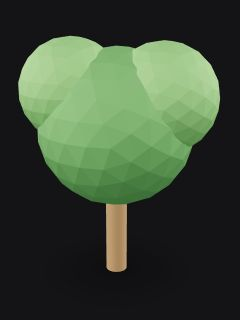
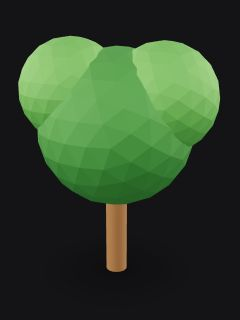
Regenerate demo models and add project notes
Demo GLBs now use real PBR materials at real-world scale, with new
thumbnails. CLAUDE.md records the architecture and behaviour decisions.

diff --git a/CLAUDE.md b/CLAUDE.md
@@ -1,0 +1,41 @@
+# Sketch-to-AR (ADR1): project notes for Claude Code
+
+Phone-first web platform where students in the ADR1 course (Columbia GSAPP, Amelyn Ng) upload Blender sketches as GLB files and place them life-sized in AR. Built and maintained by Khaled Alanjery (assistantship). TA testing: Tianrun Li.
+
+Live site: https://adr-gsapp.github.io/Sketch-to-AR/  (GitHub Pages, repo ADR-GSAPP/Sketch-to-AR, branch main, root)
+
+## Architecture
+- **index.html**: the whole front end in one file. No build step, no framework.
+  - `<model-viewer>` 3.5.0 from the Google CDN; fonts DM Sans + Geist Pixel (Google Fonts).
+  - Brand: dark `#0e0e0f`, neon green accent `#39ff14`, muted `#8a8a8f`, Geist Pixel for headings/buttons.
+  - Three tabs: **Library**, **Viewer Bay**, **My Uploads**. Desktop: top tab bar. Phone (≤760px): fixed bottom tab bar.
+  - `window.API_URL` near the top = the deployed Google Apps Script web app URL. **Never overwrite or blank it.** Empty → demo mode.
+- **Code.gs**: Google Apps Script back end, bound to a Google Sheet owned by Khaled's *personal (non-Columbia) Google account*. The copy in this repo is reference only; the running copy lives in Apps Script.
+  - GET `?action=list` → `{themes, items}`; GET `?action=file&id=` → base64 GLB.
+  - POST (body is JSON sent as text/plain to avoid a CORS preflight) with `action` = `upload` | `update` | `delete`.
+  - Files saved into the Drive folder **"star glb uploads"** (looked up by name via `getFoldersByName`). Every upload/edit/delete is logged in the Sheet's **Uploads** tab; deletes trash the Drive file and mark the row `Deleted` (row kept).
+  - Themes come from the Sheet's **Themes** tab (column A, below header). Current themes: REPAIR & RECIRCULATE MATERIALS; REST, REPOSE, RECHARGE; BLOCK PARTY, BODEGA, COMMUNITY BUILDING; SOLARPUNK (COLLECTIVIZE RESOURCES); SOILPUNK (REGENERATE THE EARTH).
+  - ⚠ The repo's Code.gs may still be the older version (`FOLDER_NAME = 'Sketch-to-AR uploads'` + auto-create). The deployed version uses `'star glb uploads'` and throws if the folder is missing. Sync the repo copy to the deployed one if editing.
+  - After changing the script: Deploy > Manage deployments > edit > **New version** (URL stays the same). Access must be **Anyone**. Columbia (LionMail) deployments only allow "Anyone at Columbia", which breaks the site with a CORS error, which is why the back end moved to a personal account.
+- **demo/**: six sample GLBs (oak-tree, park-bench, street-lamp, cafe-chair, stone-gateway, planter-box) at real-world scale in meters, Y-up, with real PBR materials (baseColorFactor in linear space, no vertex colors), plus 240×320 JPEG thumbnails. The same GLBs and thumbnails are also **embedded as base64 in index.html** (`DEMO_DATA`) so demo mode works from `file://`. If you regenerate the demos, update both.
+
+## Behaviour decisions (made by Khaled; keep unless he says otherwise)
+- **One file per sketch: GLB only.** No USDZ upload. iPhone AR uses model-viewer's auto-generated USDZ (known trade-off: no animation in iPhone AR).
+- **Upload is desktop only** (`(hover:hover) and (pointer:fine)` and width > 760). Phones get Library, Viewer Bay and My Uploads (rename/change theme/delete), with no upload form.
+- Upload fields: **student name, theme, project name**. No student ID / UNI.
+- **Ownership is name-only** (type your name in My Uploads to see/edit/delete your sketches). Honor system, chosen deliberately. Two-step inline delete (no `confirm()` pop-ups).
+- **Library = Mortal Kombat character-select feel**: "Choose your sketch", theme filter chips, tiles with thumbnail + name plate. First tap selects: the tile enlarges to 2×2, glows, shows a "P1" tag and spins the live 3D model (`auto-rotate`, turntable), and the sketch replaces whatever is in the Viewer Bay. A second tap on the same tile opens the Viewer Bay.
+- **Viewer Bay = Khaled's original single-page viewer, kept as-is**: headline "Tap below to place this life-sized sketch in your space!", 480px model-viewer, the green "View in AR" button slotted inside model-viewer, and the hint "Works best on a phone with AR support (iOS Quick Look or Android Scene Viewer)." Don't add a nameplate/QR/etc. without asking.
+- Thumbnails are generated client-side at upload (`model-viewer.toBlob` → 240×320 JPEG data URL, kept under ~44k chars so it fits in a Sheet cell).
+- Name field placeholder: "YOUR NAME HERE".
+- Max upload 25 MB (Apps Script payload limit, GitHub browser-upload limit). Recommend students keep models under ~10 MB because files load through Apps Script as base64.
+
+## Known issues / to-do
+- Test on real phones (TAs): iPhone Safari + Android Chrome, AR placement, true scale, textures, large files (~20 MB). Android loads models from blob URLs, so it uses WebXR rather than Scene Viewer; some phones may not support it.
+- The student guide (a Claude Doc, "ADR1 — Sketch to AR: One-File Workflow") describes the *old* GitHub-folder-per-model workflow and needs rewriting for this upload flow.
+- Optional ideas raised but not built: optional USDZ field for animated sketches on iPhone; desktop QR code in the Viewer Bay; locking AR to true scale (`ar-scale="fixed"`).
+
+## Working in this repo
+- The folder lives inside Google Drive (CloudStorage), so file syncing can lag; commit/push with GitHub Desktop.
+- Test locally with a static server (`python3 -m http.server`) rather than `file://` when checking anything that fetches.
+- GitHub Pages caches; after a push, hard-reload (⌘⇧R) or use a private window.
